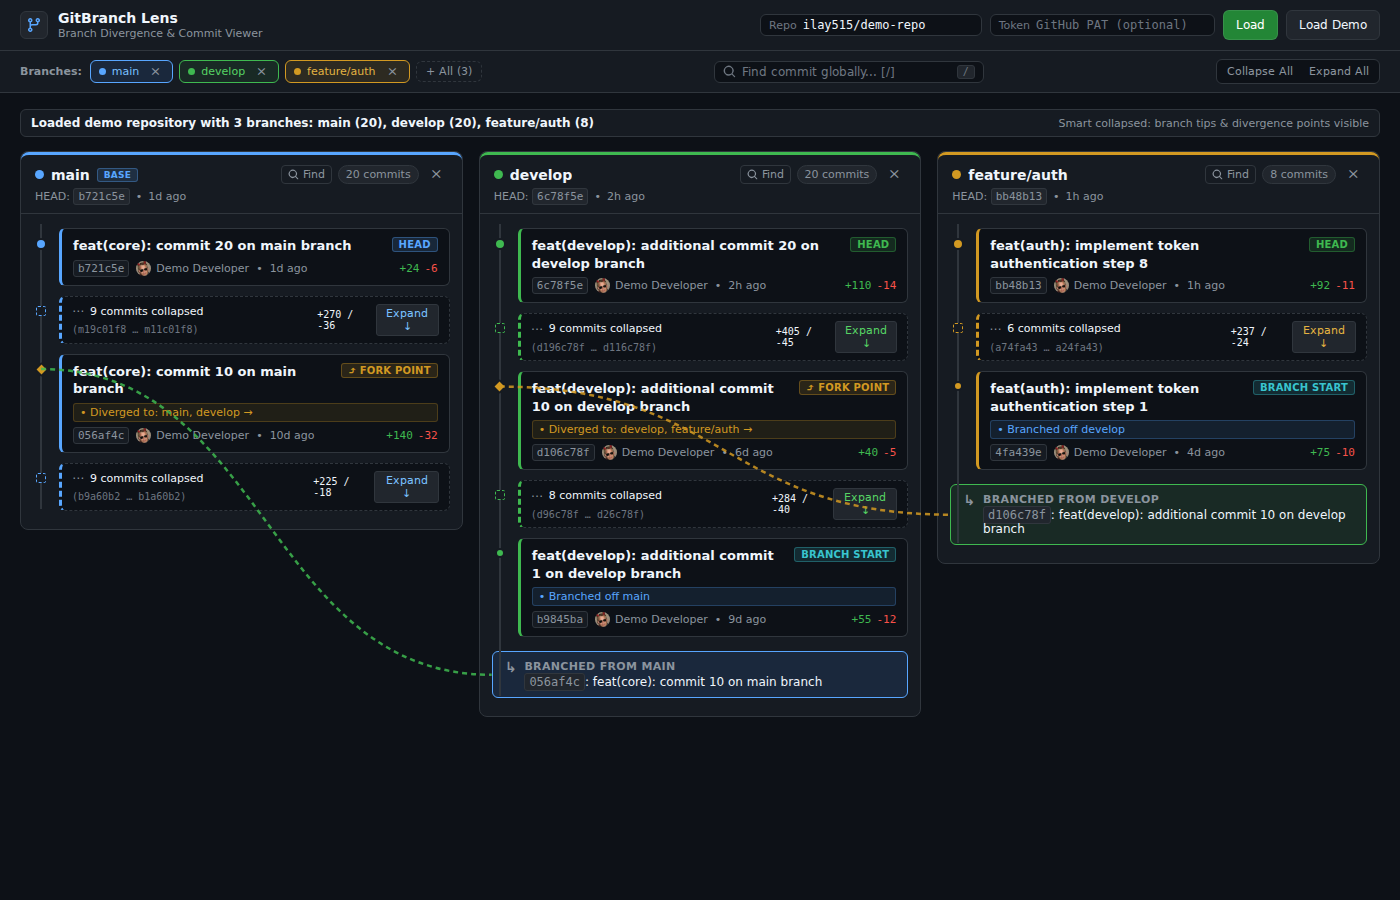
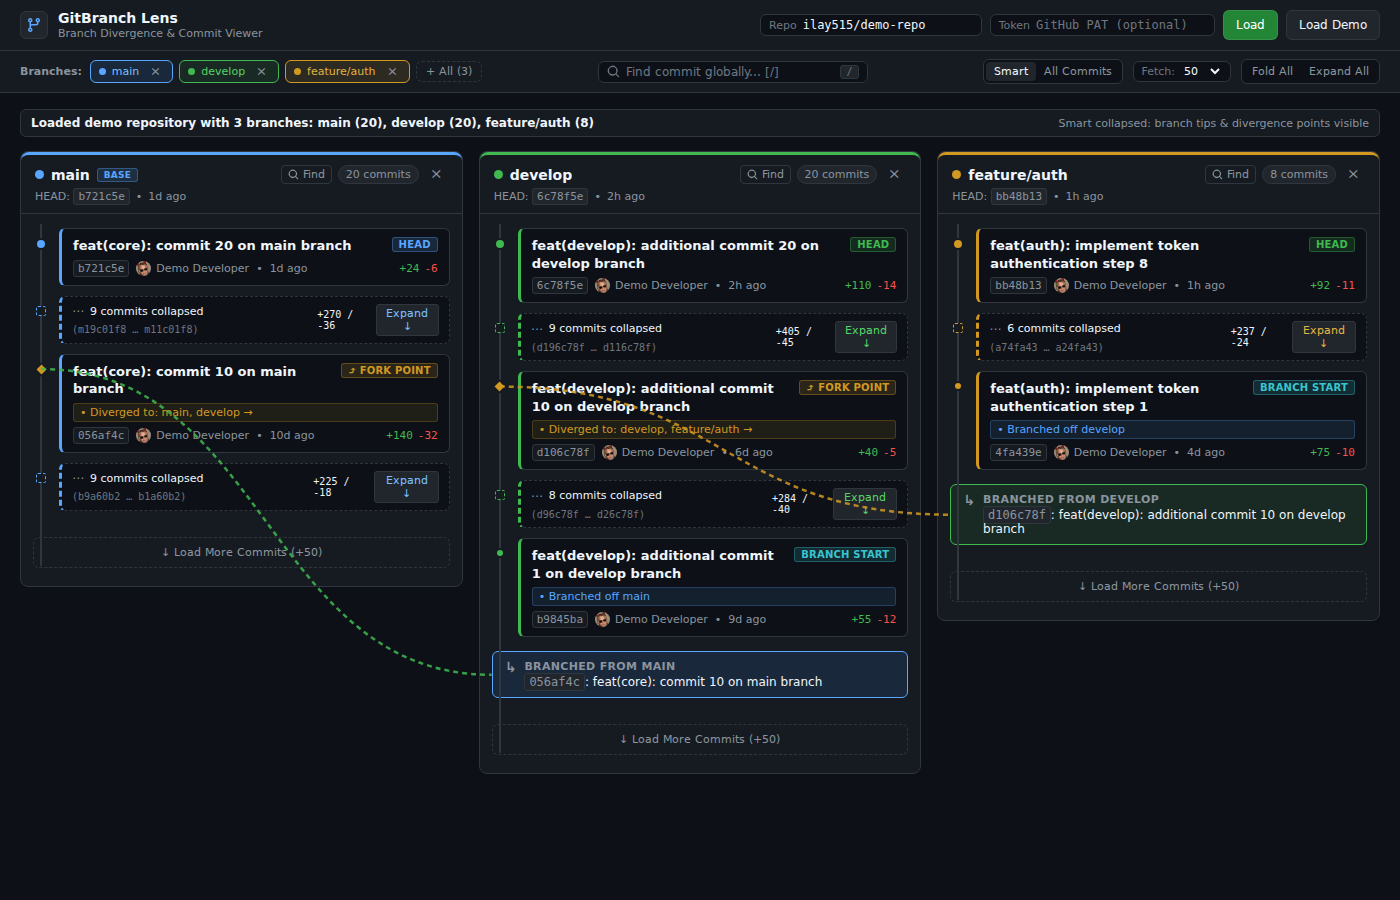
feat: add All Commits view mode, configurable fetch depth, and per-branch load more commits

diff --git a/app.js b/app.js
@@ -24,6 +24,9 @@
     currentSearchIndex: -1,
     branchSearchQueries: new Map(), // branchName -> query
     activeBranchSearch: new Set(),  // set of branchNames with visible search input
+    commitsDepth: 50,               // default commits depth
+    branchPages: new Map(),         // branchName -> page number
+    branchLoadingMore: new Set(),   // set of branches currently fetching more
   };
 
   // Branch Color Palette (Clean Developer-Grade Colors)
@@ -390,10 +393,11 @@
       }
     }
 
-    // Always fetch recent commits for each selected branch to ensure HEAD and recent linear chain are present
+    // Fetch commits for each selected branch with configured depth
     for (const bName of selectedBranchNames) {
+      state.branchPages.set(bName, 1);
       try {
-        const list = await fetchGitHub(`/repos/${ownerRepo}/commits?sha=${encodeURIComponent(bName)}&per_page=15`);
+        const list = await fetchGitHub(`/repos/${ownerRepo}/commits?sha=${encodeURIComponent(bName)}&per_page=${state.commitsDepth}&page=1`);
         list.forEach((c, idx) => {
           if (!state.commitsMap.has(c.sha)) {
             const commitObj = formatGitHubCommit(c, bName);
@@ -407,6 +411,65 @@
       } catch (e) {
         console.error(`Error loading commits for branch ${bName}:`, e);
       }
+    }
+  }
+
+  async function loadMoreCommits(branchName) {
+    if (state.branchLoadingMore.has(branchName)) return;
+    state.branchLoadingMore.add(branchName);
+    renderGraph();
+
+    if (state.isDemo) {
+      // Simulate adding 10 more historical commits for this branch in demo mode
+      const bCommits = Array.from(state.commitsMap.values()).filter(c => c.branch === branchName);
+      bCommits.sort((a, b) => new Date(a.date) - new Date(b.date)); // oldest first
+      const oldest = bCommits[0];
+      const oldestTime = oldest ? new Date(oldest.date).getTime() : Date.now();
+      const startIndex = bCommits.length + 1;
+
+      for (let i = startIndex; i < startIndex + 10; i++) {
+        const extraSha = `x${i}${hashCode(branchName).toString(16).slice(-4)}${i}`;
+        state.commitsMap.set(extraSha, {
+          sha: extraSha,
+          shortSha: extraSha.substring(0, 7),
+          message: `chore(${branchName}): historical baseline commit ${i}`,
+          author: { name: 'Demo Developer', login: 'developer', avatar: 'https://avatars.githubusercontent.com/u/1000' },
+          date: new Date(oldestTime - (i - startIndex + 1) * 86400000).toISOString(),
+          parents: [`parent_${i}`],
+          branch: branchName,
+          stats: { additions: 12 + i, deletions: 3 },
+          isHead: false,
+        });
+      }
+      state.branchLoadingMore.delete(branchName);
+      renderStatus(`Loaded 10 more historical commits for ${branchName}.`);
+      renderGraph();
+      return;
+    }
+
+    const nextPage = (state.branchPages.get(branchName) || 1) + 1;
+    renderStatus(`Fetching page ${nextPage} of commits for ${branchName}...`);
+
+    try {
+      const list = await fetchGitHub(`/repos/${state.repo}/commits?sha=${encodeURIComponent(branchName)}&per_page=${state.commitsDepth}&page=${nextPage}`);
+      if (Array.isArray(list) && list.length > 0) {
+        list.forEach(c => {
+          if (!state.commitsMap.has(c.sha)) {
+            const commitObj = formatGitHubCommit(c, branchName);
+            state.commitsMap.set(commitObj.sha, commitObj);
+          }
+        });
+        state.branchPages.set(branchName, nextPage);
+        renderStatus(`Loaded ${list.length} more commits for ${branchName} (page ${nextPage}).`);
+      } else {
+        renderStatus(`Reached earliest available commit for ${branchName}.`);
+      }
+    } catch (e) {
+      console.error(`Error loading more commits for ${branchName}:`, e);
+      renderStatus(`Could not load more commits: ${e.message}`);
+    } finally {
+      state.branchLoadingMore.delete(branchName);
+      renderGraph();
     }
   }
 
@@ -1058,7 +1121,13 @@
         `;
       }
 
+      const isLoadingMore = state.branchLoadingMore.has(bName);
       boardHtml += `
+            <div class="column-footer-actions">
+              <button class="btn-load-more-commits" data-branch="${escapeHtml(bName)}" ${isLoadingMore ? 'disabled' : ''}>
+                ${isLoadingMore ? '<span>Loading commits...</span>' : `<span>&darr; Load More Commits (+${state.commitsDepth})</span>`}
+              </button>
+            </div>
           </div>
         </div>
       `;
@@ -1210,6 +1279,15 @@
         e.stopPropagation();
         const bName = btn.getAttribute('data-branch');
         if (bName) toggleBranchSearch(bName);
+      });
+    });
+
+    // Load More Commits button click
+    document.querySelectorAll('.btn-load-more-commits').forEach(btn => {
+      btn.addEventListener('click', (e) => {
+        e.stopPropagation();
+        const bName = btn.getAttribute('data-branch');
+        if (bName) loadMoreCommits(bName);
       });
     });
 
@@ -1464,6 +1542,40 @@
       btnCollapseAll.addEventListener('click', () => {
         state.expandedChains.clear();
         renderGraph();
+      });
+    }
+
+    // Filter mode buttons: Smart vs All Commits
+    const btnModeSmart = document.getElementById('btn-mode-smart');
+    const btnModeAll = document.getElementById('btn-mode-all');
+
+    if (btnModeSmart && btnModeAll) {
+      btnModeSmart.addEventListener('click', () => {
+        state.filterMode = 'smart';
+        btnModeSmart.classList.add('active');
+        btnModeAll.classList.remove('active');
+        renderGraph();
+      });
+
+      btnModeAll.addEventListener('click', () => {
+        state.filterMode = 'all';
+        btnModeAll.classList.add('active');
+        btnModeSmart.classList.remove('active');
+        renderGraph();
+      });
+    }
+
+    // Depth Selector
+    const commitDepthSelect = document.getElementById('commit-depth-select');
+    if (commitDepthSelect) {
+      commitDepthSelect.value = state.commitsDepth.toString();
+      commitDepthSelect.addEventListener('change', (e) => {
+        state.commitsDepth = parseInt(e.target.value, 10);
+        if (!state.isDemo && state.repo) {
+          fetchCommitsForBranches(state.repo, state.selectedBranches).then(renderGraph);
+        } else {
+          renderGraph();
+        }
       });
     }
 

diff --git a/style.css b/style.css
@@ -414,6 +414,40 @@ body {
   font-weight: 500;
 }
 
+/* Commit Depth Selector */
+.depth-selector-group {
+  display: flex;
+  align-items: center;
+  gap: 5px;
+  background: var(--bg-input);
+  border: 1px solid var(--border-default);
+  border-radius: var(--radius-md);
+  padding: 2px 7px;
+  font-size: 11px;
+}
+
+.depth-selector-group label {
+  color: var(--text-tertiary);
+  font-size: 11px;
+  font-weight: 500;
+  user-select: none;
+}
+
+.depth-select {
+  background: transparent;
+  border: none;
+  outline: none;
+  color: var(--text-primary);
+  font-size: 11px;
+  cursor: pointer;
+  padding-right: 2px;
+}
+
+.depth-select option {
+  background: var(--bg-surface);
+  color: var(--text-primary);
+}
+
 .rate-limit-pill {
   font-size: 11px;
   font-family: var(--font-mono);
@@ -422,6 +456,43 @@ body {
   padding: 2px 7px;
   border-radius: var(--radius-sm);
   border: 1px solid var(--border-default);
+}
+
+/* Column Footer & Load More Commits */
+.column-footer-actions {
+  margin-top: 12px;
+  display: flex;
+  justify-content: center;
+  padding-top: 4px;
+}
+
+.btn-load-more-commits {
+  width: 100%;
+  background: #161b22;
+  border: 1px dashed var(--border-default);
+  color: var(--text-secondary);
+  border-radius: var(--radius-md);
+  padding: 8px 12px;
+  font-size: 11px;
+  font-weight: 500;
+  cursor: pointer;
+  display: flex;
+  align-items: center;
+  justify-content: center;
+  gap: 6px;
+  transition: all 0.15s ease;
+}
+
+.btn-load-more-commits:hover {
+  background: #21262d;
+  color: var(--text-primary);
+  border-color: #8b949e;
+  border-style: solid;
+}
+
+.btn-load-more-commits:disabled {
+  opacity: 0.5;
+  cursor: wait;
 }
 
 /* Main Layout */

diff --git a/index.html b/index.html
@@ -67,8 +67,25 @@
         <!-- Injected rate limit -->
       </div>
 
+      <!-- View Mode: Smart vs All Commits -->
+      <div class="toggle-group" id="filter-mode-group">
+        <button class="toggle-btn active" id="btn-mode-smart" title="Collapse linear intermediate commits">Smart</button>
+        <button class="toggle-btn" id="btn-mode-all" title="Show every individual commit">All Commits</button>
+      </div>
+
+      <!-- Depth Selector -->
+      <div class="depth-selector-group">
+        <label for="commit-depth-select">Fetch:</label>
+        <select id="commit-depth-select" class="depth-select" title="Number of commits to fetch per branch">
+          <option value="30">30</option>
+          <option value="50" selected>50</option>
+          <option value="100">100</option>
+          <option value="200">200</option>
+        </select>
+      </div>
+
       <div class="toggle-group">
-        <button class="toggle-btn" id="btn-collapse-all" title="Collapse linear intermediate commits">Collapse All</button>
+        <button class="toggle-btn" id="btn-collapse-all" title="Collapse linear intermediate commits">Fold All</button>
         <button class="toggle-btn" id="btn-expand-all" title="Expand all commit chains">Expand All</button>
       </div>
     </div>

diff --git a/README.md b/README.md
@@ -11,6 +11,8 @@ Standard Git viewers bury branch relationships under hundreds of linear commits.
 ## Features
 
 - **Clean Developer UI**: Disciplined, distraction-free interface built with dark developer tokens, clear visual hierarchy, and zero gimmicky neon glows.
+- **Smart vs All Commits View Modes**: Toggle between **Smart** mode (intermediate linear commits collapsed into compact capsules) and **All Commits** mode (every single commit shown along the branch timeline).
+- **Configurable Commit Depth & "Load More Commits"**: Select initial fetch depth (30, 50, 100, 200 commits per branch) or click `↓ Load More Commits (+50)` at the bottom of any branch column to continuously load deeper commit history.
 - **Find Globally Tool (`/`)**: Search across all active branches by commit message, author name, or SHA hash. Features auto-expansion of collapsed chains containing matches, match counter, and prev/next navigation (`Enter` / `Shift+Enter`).
 - **Find Commit on Branch**: Inline search tool directly inside each branch column header. Quickly filter or highlight commits within a specific branch.
 - **Multi-Column Swimlane Layout**: Each branch has its own dedicated column. Commit messages and cards are cleanly separated and never cramped together.
